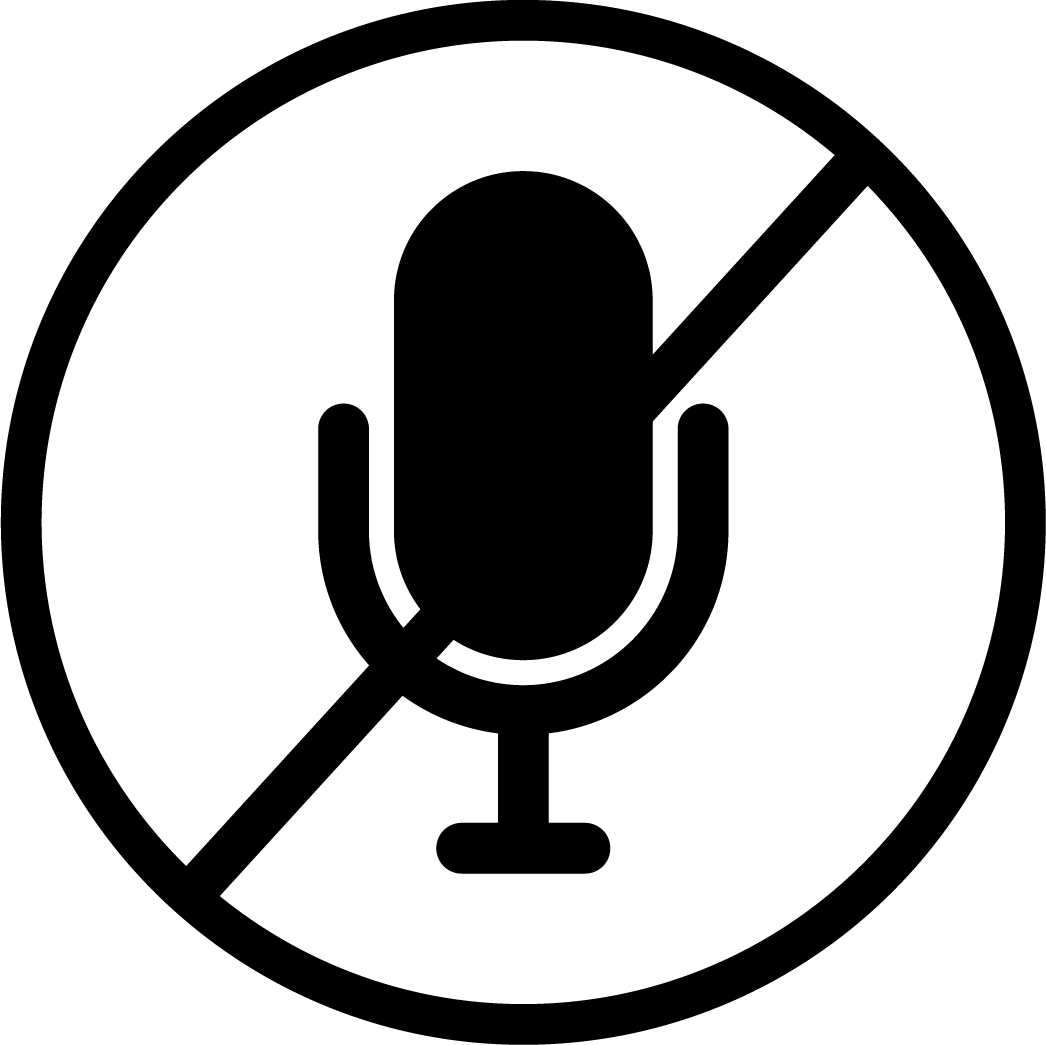
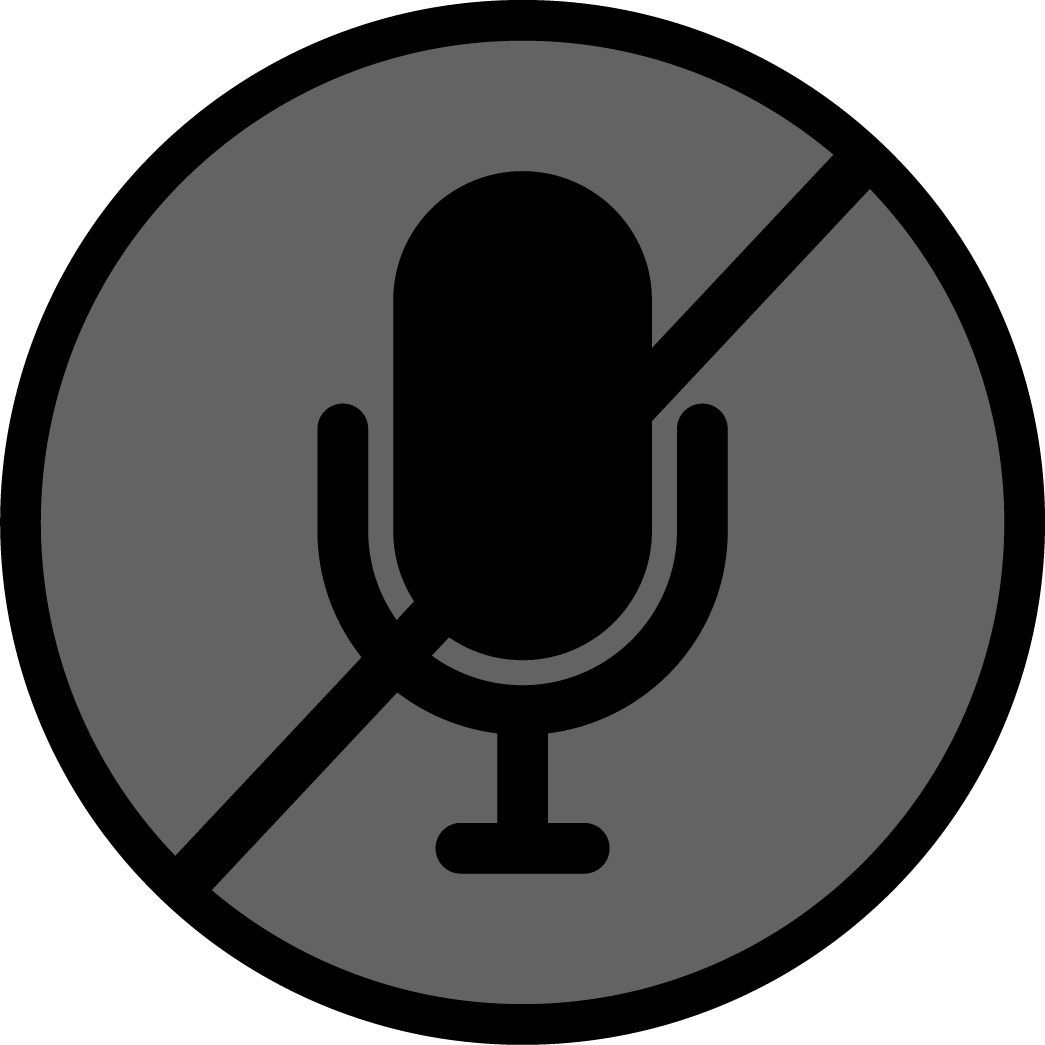
feat: change mute.png and face video autoplay

diff --git a/src/component/face.js b/src/component/face.js
@@ -3,7 +3,7 @@ import video from "../assets/or_idle.mp4"
 function Face() {
     return (
         <div className="face">
-            <video className='video' id="video">
+            <video className='video' id="video" loop autoPlay muted>
                 <source src={video} type="video/mp4" />
             </video>
         </div>

diff --git a/src/component/buttons.js b/src/component/buttons.js
@@ -1,6 +1,6 @@
 import accept from '../assets/accept.png';
 import end from '../assets/end.png';
-import talk from '../assets/talk.png';
+import talk from '../assets/mute.png';
 import './styles/buttons.css';
 
 function Buttons() {
